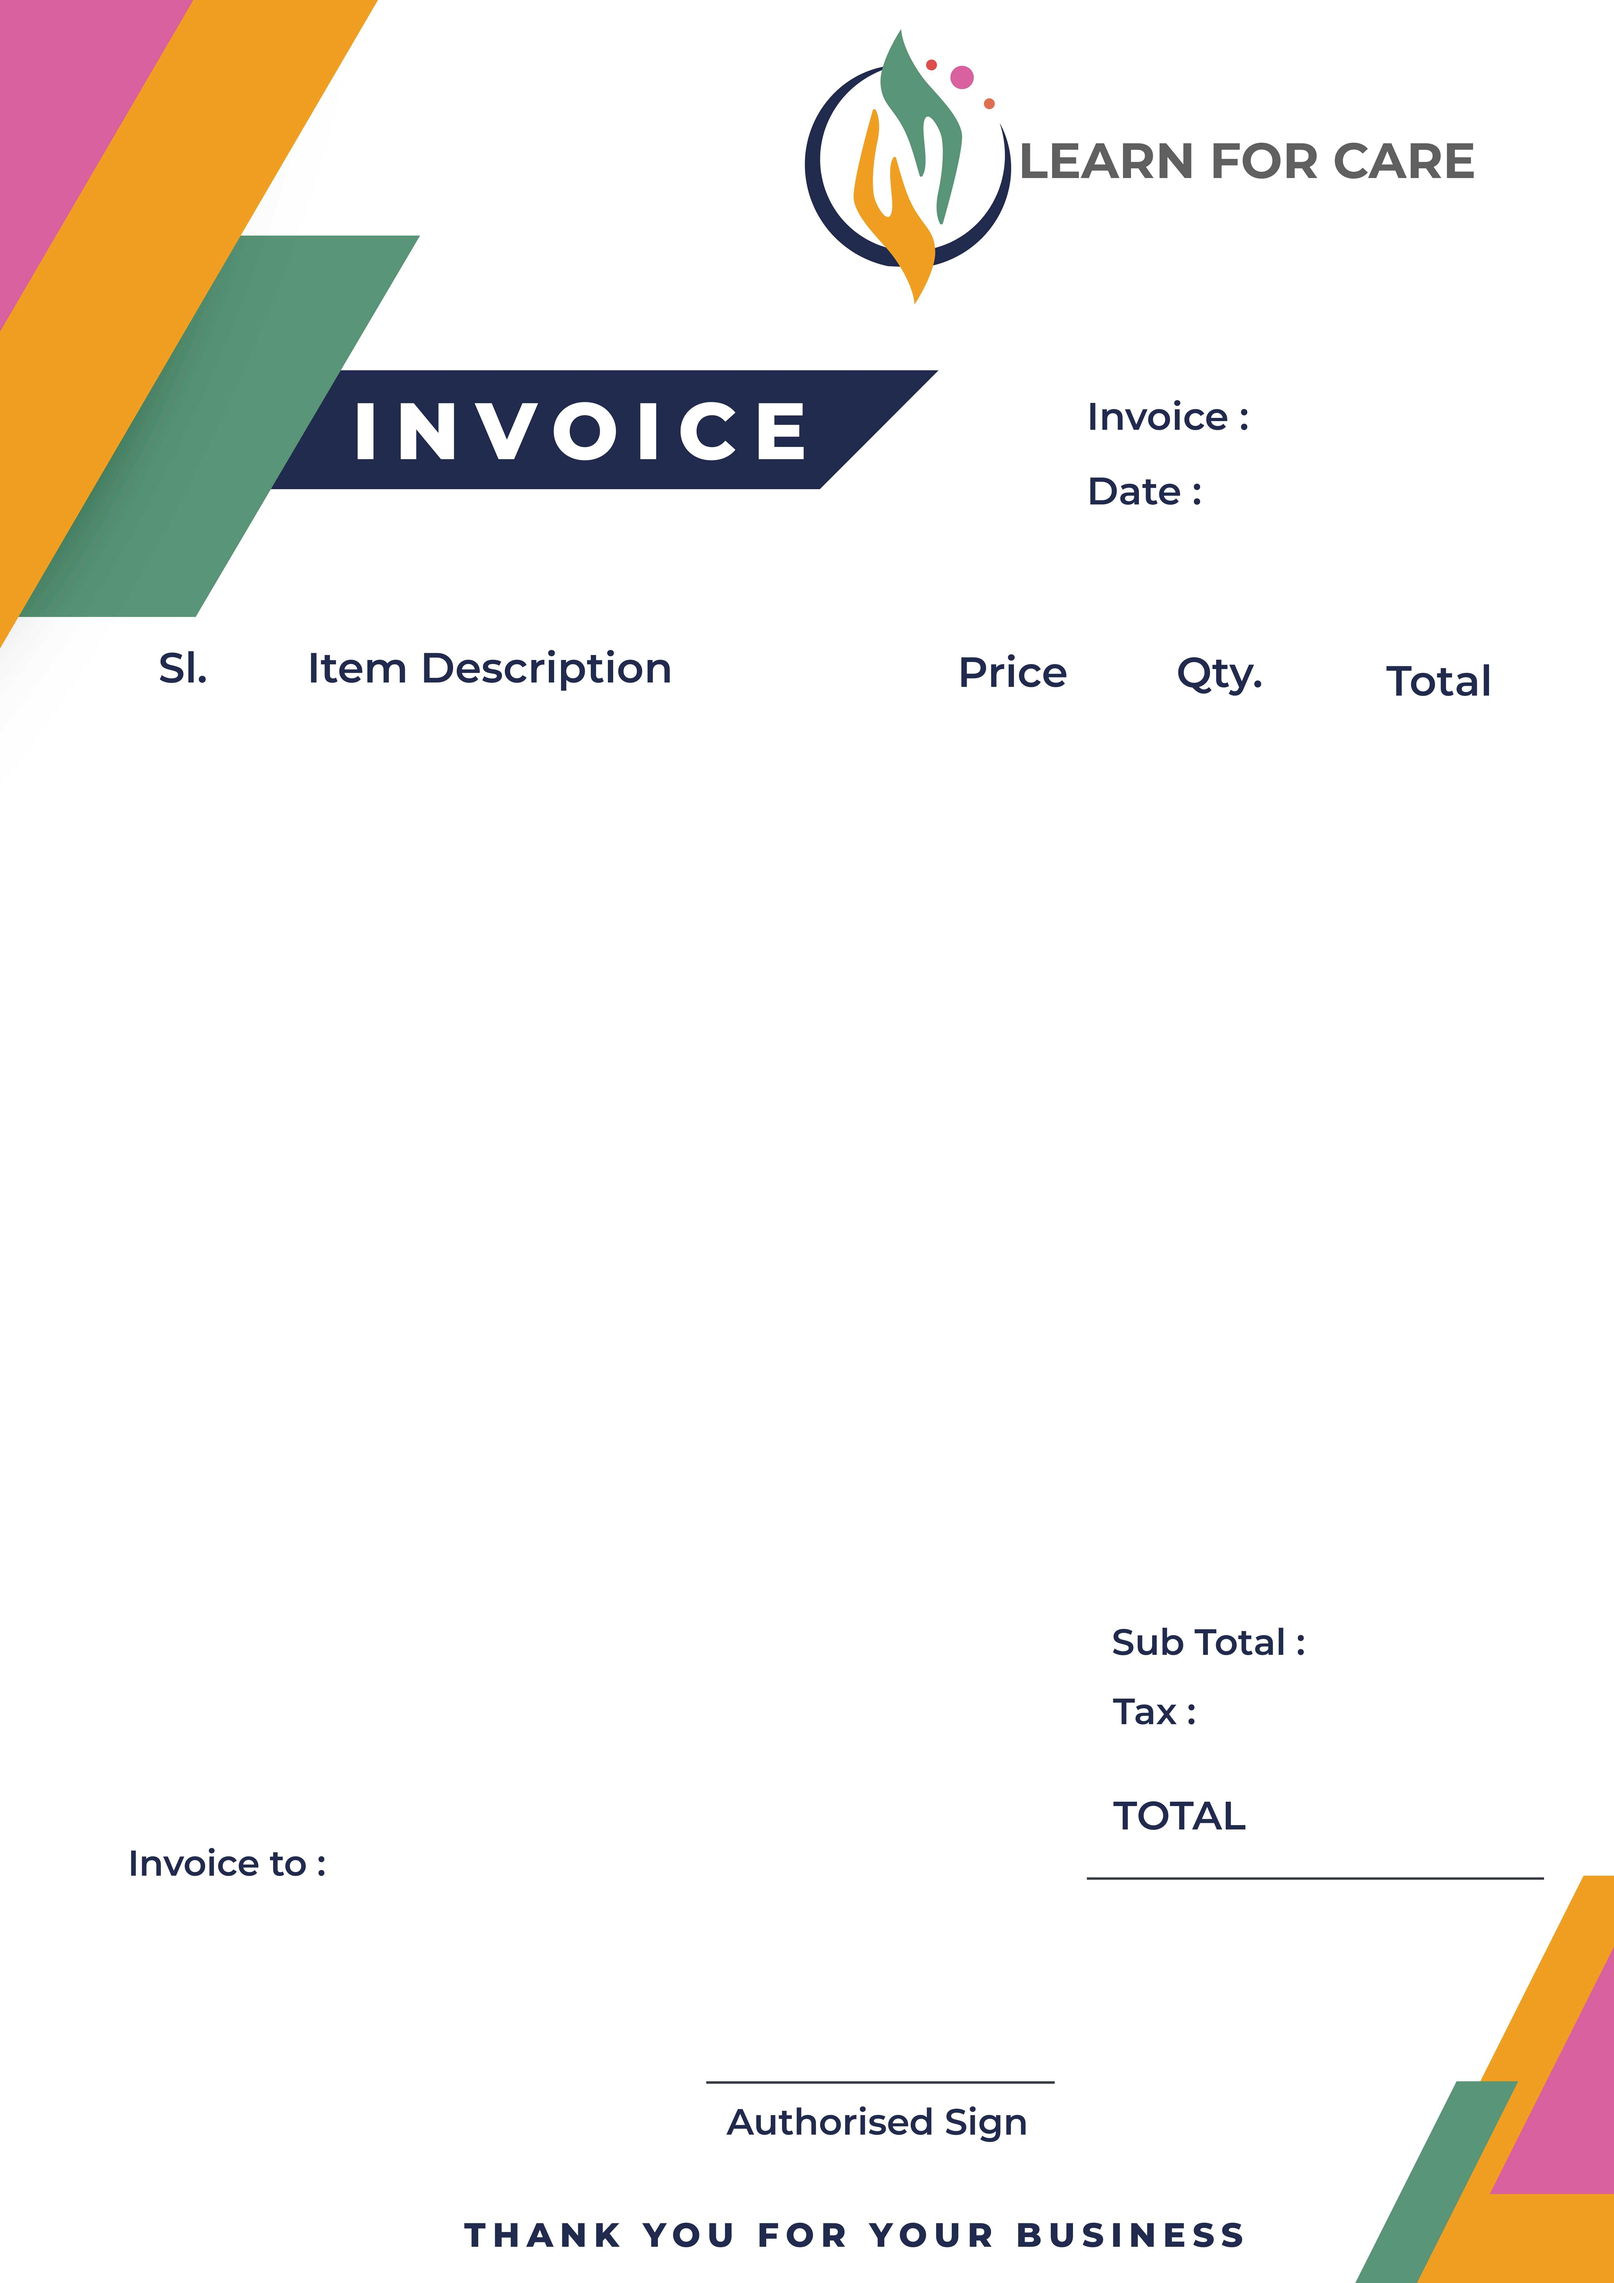
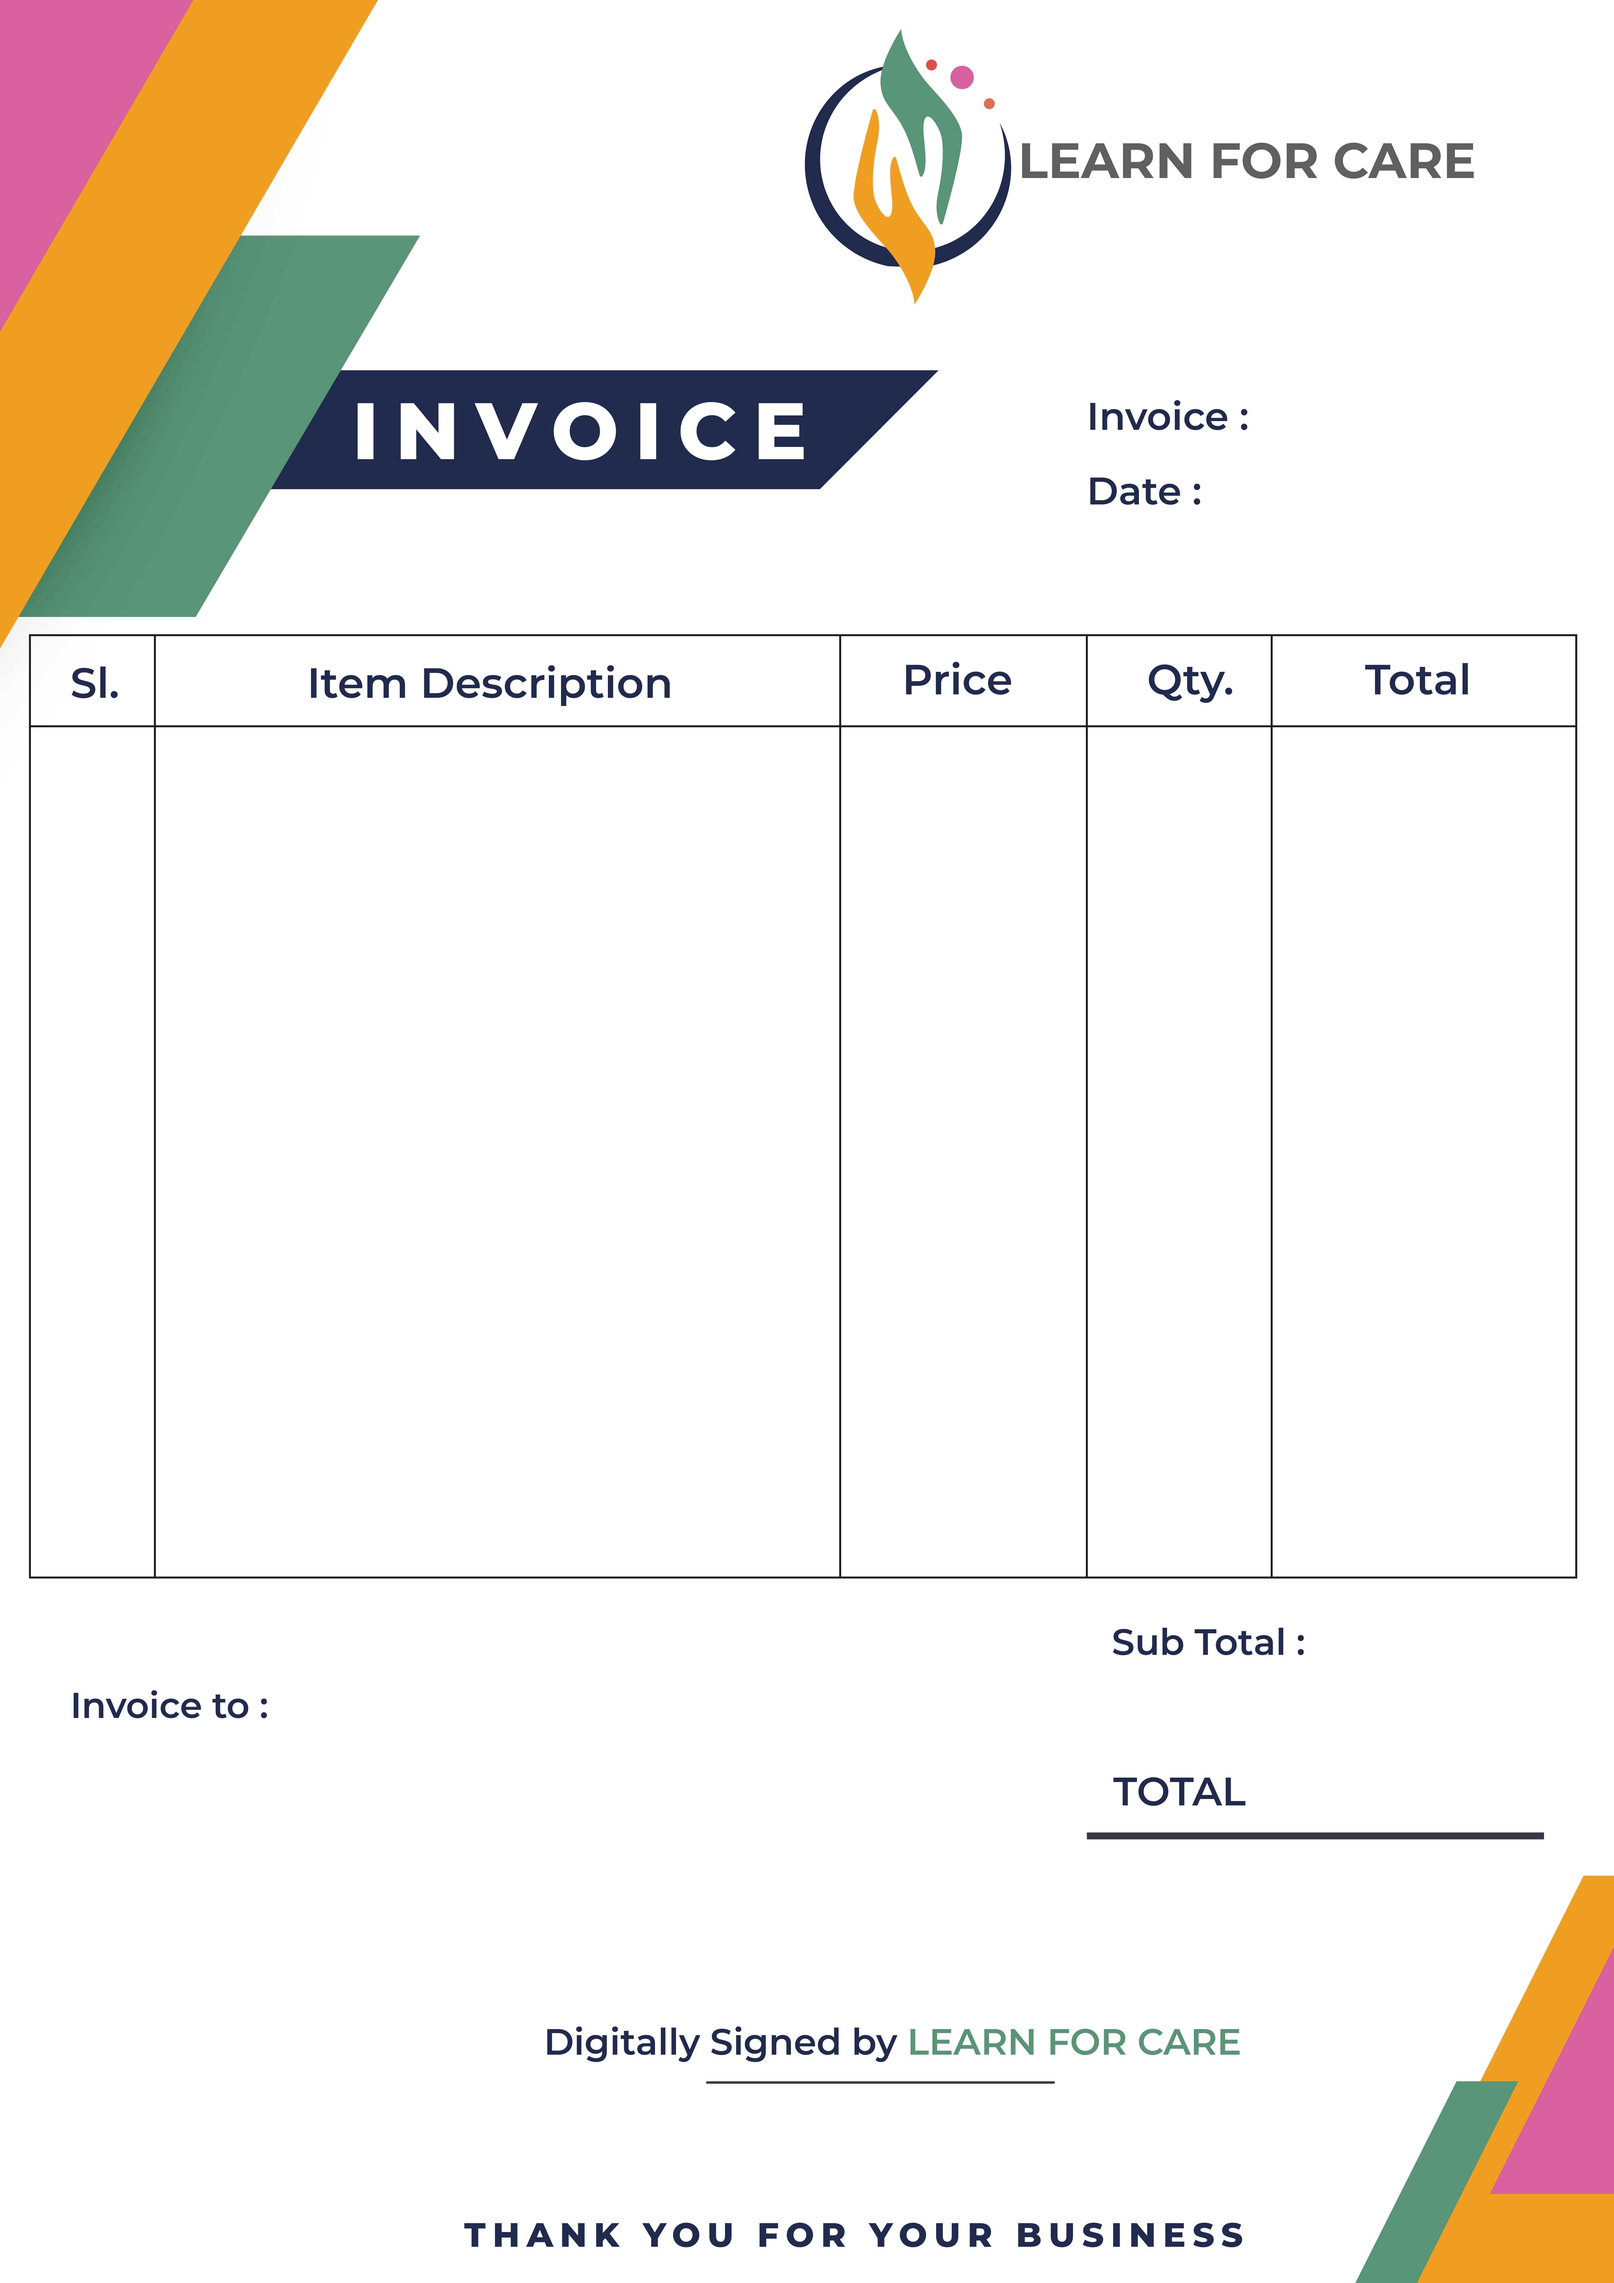
invoice updated

diff --git a/src/invoice/invoice.js b/src/invoice/invoice.js
@@ -26,6 +26,9 @@ export async function saveInvoice(
       // item_type: 'course',
       // amount: 30
 
+      let date = new Date().toLocaleDateString().split("/");
+      let newDate = date[1] + "/" + date[0] + "/" + date[2];
+
       let tableData = data.map((item) => {
         return [
           `LFC${item.id}`,
@@ -54,28 +57,60 @@ export async function saveInvoice(
 
       doc.font("Helvetica");
 
+      doc.text(sl, 485, 154);
+      doc.text(newDate, 485, 182, { width: 70 });
+
       // Set the starting position for the table
-      let startX = 50;
-      let startY = 300;
+      let startX = 20;
+      let startY = 280;
+
+      // Set the width and height for each column
+      const columnWidths = [47, 258, 94, 70, 40];
+      const rowHeight = 20;
 
       setTimeout(() => {
         fs.unlinkSync(file_name);
       }, 20000);
-      // Set the width and height for each column
-      const columnWidths = [70, 245, 86, 80, 50];
-      const rowHeight = 30;
 
       // Function to draw a table row
       function drawRow(rowData, startX, startY) {
         rowData.forEach((text, index) => {
+          if (text.length >= 36) {
+            text = text.slice(0, 36) + "...";
+          }
           doc.text(text, startX, startY, { width: columnWidths[index] });
           startX += columnWidths[index];
         });
       }
 
       // Function to draw the entire table
+      // function drawTable() {
+      //   tableData.forEach((row) => {
+      //     drawRow(row, startX, startY);
+      //     startY += rowHeight;
+      //   });
+      // }
+
       function drawTable() {
-        tableData.forEach((row) => {
+        tableData.forEach((row, index) => {
+          if ((index + 1) % 16 == 0) {
+            startX = 20;
+            startY = 280;
+            doc.addPage();
+
+            doc.image(
+              path.join(__dirname, "../", "/invoice/learnforcare-invoice.jpg"),
+              0,
+              0,
+              {
+                cover: [doc.page.width, doc.page.height],
+              }
+            );
+
+            doc.text(sl, 485, 154);
+            doc.text(newDate, 485, 182, { width: 70 });
+          }
+
           drawRow(row, startX, startY);
           startY += rowHeight;
         });
@@ -84,19 +119,14 @@ export async function saveInvoice(
       // Draw the table
       drawTable();
 
-      let date = new Date().toLocaleDateString().split("/");
-      let newDate = date[1] + "/" + date[0] + "/" + date[2];
-
-      doc.text(sl, 485, 154);
-      doc.text(newDate, 485, 182, { width: 70 });
-      doc.text(userName, 135, 702, { width: 160 });
+      doc.text(userName, 110, 642, { width: 160 });
 
       doc.fontSize(14);
       doc.text(subTotal, 520, 618, { width: 70 });
-      doc.text(tax, 520, 646, { width: 70 });
+      // doc.text(tax, 520, 646, { width: 70 });
 
       doc.fontSize(18);
-      doc.text(total, 500, 682, { width: 70 });
+      doc.text(total, 500, 672, { width: 70 });
 
       doc.end();
 

diff --git a/src/emailTemplates/invoice.js b/src/emailTemplates/invoice.js
@@ -313,21 +313,20 @@ export const invoiceTemplate = (name, invoice_number, invoice_date, logo) => {
                         <td style="text-align: center;">
                             <div style="text-align: start; margin: 0 3rem;">
                                 <strong>Dear ${name},</strong>
-<p>
-    I hope this email finds you well. Attached, please find the invoice for the products provided by LearnForCare. The details of the invoice are outlined below:
-</p>
+                                    <p>
+                                        I hope this email finds you well. Attached, please find the invoice for the products provided by LearnForCare. The details of the invoice are outlined below:
+                                    </p>
 
-Invoice Number: ${invoice_number} <br>
-Invoice Date: ${invoice_date} <br>
-<br>
+                                    Invoice Number: ${invoice_number} <br>
+                                    Invoice Date: ${invoice_date} <br>
+                                    <br>
 
-Please review the attached invoice at your earliest convenience. If you have any questions or concerns, feel free to reach out to us. We kindly request that payment be made by the due date specified on the invoice. <br>
-<br>
-<div style="text-align: center;">
-    Please contact us on support@learnforcare.co.uk </br>
-    <a target="_blank" href="www.learnforcare.co.uk">Learn For Care</a>
-</div>
-
+                                    Please review the attached invoice at your earliest convenience. If you have any questions or concerns, feel free to reach out to us. We kindly request that payment be made by the due date specified on the invoice. <br>
+                                    <br>
+                                    <div style="text-align: center;">
+                                        Please contact us on support@learnforcare.co.uk </br>
+                                        <a target="_blank" href="www.learnforcare.co.uk">Learn For Care</a>
+                                    </div>
                              </div>
                         </td>
                       </tr>

diff --git a/src/emailTemplates/userCredentialsFromAdmin.js b/src/emailTemplates/userCredentialsFromAdmin.js
@@ -392,8 +392,7 @@ export function userCredentialsFromAdmin(name, email, pass) {
                       <p>This account is assigned by Learn For Care, ensuring that the courses offered here are tailored to your professional development. With your login credentials in hand, you're ready to embark on an exciting educational journey. Now, let the learning adventure begin! Happy learning!</p>
                       <br />
                       <p>
-                        If you don't request this email, you can simply ignore
-                        it.
+                        If you don't request this email, you can simply ignore it.
                       </p>
                     </div>
                   </td>

diff --git a/src/emailTemplates/userCredentials.js b/src/emailTemplates/userCredentials.js
@@ -393,8 +393,7 @@ export function userCredentials(name, email, pass) {
                       <p>This account is assigned by your company, ensuring that the courses offered here are tailored to your professional development. With your login credentials in hand, you're ready to embark on an exciting educational journey. Now, let the learning adventure begin! Happy learning!</p>
                       <br />
                       <p>
-                        If you don't request this email, you can simply ignore
-                        it.
+                        If you don't request this email, you can simply ignore it.
                       </p>
                     </div>
                   </td>

diff --git a/src/conf/mailTrap.js b/src/conf/mailTrap.js
@@ -7,11 +7,6 @@ export let mailTrapClient = null;
 export function mailtrapConf() {
   return new Promise((resolve, reject) => {
     try {
-      console.log(
-        process.env.MAILTRAP_TOKEN,
-        " ",
-        process.env.MAILTRAP_ENDPOINT
-      );
       mailTrapClient = new MailtrapClient({
         endpoint: process.env.MAILTRAP_TOKEN,
         token: process.env.MAILTRAP_ENDPOINT,
